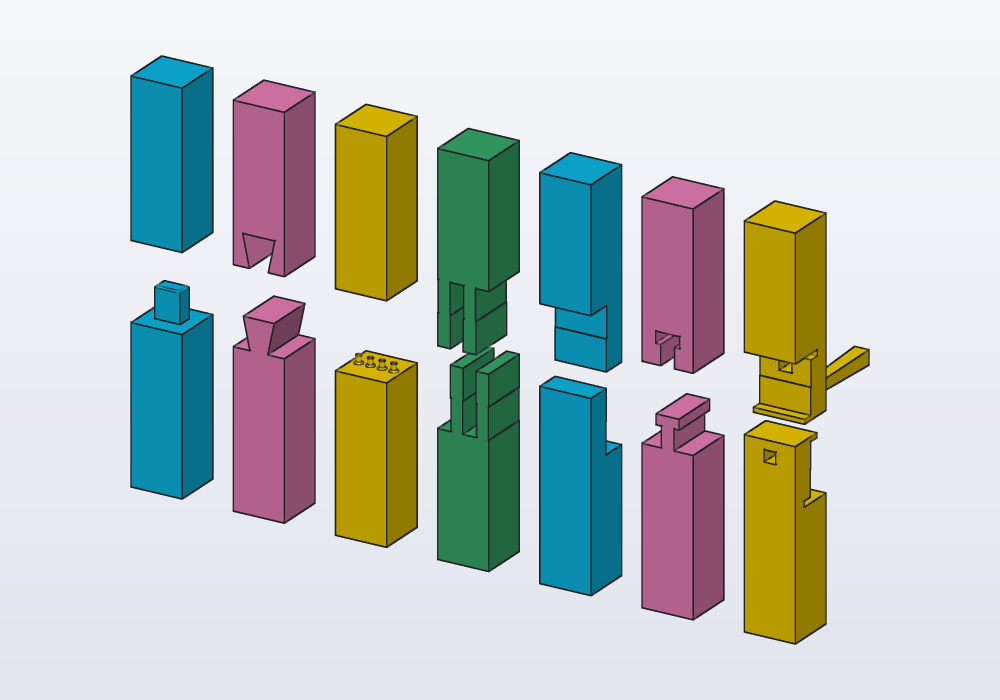
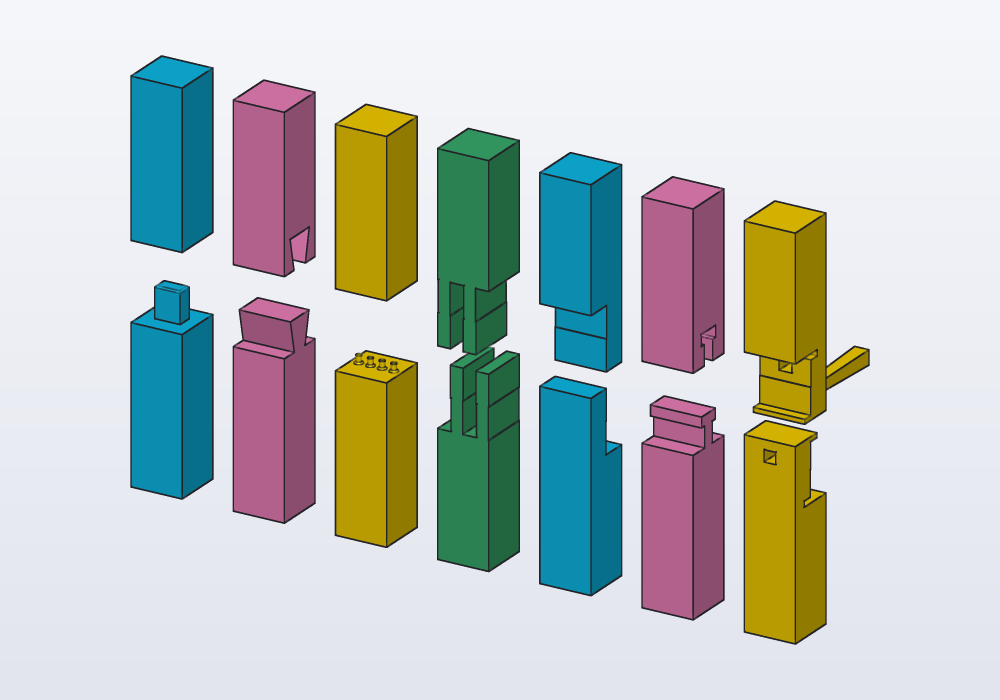
joinParts(): two parts joined where one ends on the other, a through tenon, a sliding dovetail whose housing runs out of the post; joints lie along the cut's longer side

Changed region(s): [[0.651, 0.45, 0.713, 0.66], [0.217, 0.42, 0.31, 0.51], [0.248, 0.33, 0.31, 0.39]]

diff --git a/docs/cheatsheet.html b/docs/cheatsheet.html
@@ -451,9 +451,10 @@ dd { margin: 0 0 0 12px; color: #4a5a54; }
 </dl></section>
 <section><h2>import joints;</h2><dl>
 <dt>struct Joint(a: Solid, b: Solid, loose: Solid[])</dt><dd>The two pieces of a solid cut along a plane with a joint between them, and the loose parts that lock it (a wedge), if any.</dd>
-<dt>splitJoint(body: Solid, at: Plane, kind: string = "tenon", size: Length = …, length: Length = …, clearance: Length = …, turn: Angle = …, count: int = 2) → Joint</dt><dd>`body` cut along the plane `at` into two pieces that fit together with a joint, `clearance` apart where they meet (0.2 mm suits most FDM printers: see the fits guide). The joint is centred on the cut (the middle of the section), `turn` turns it about the plane's normal; `size` sets its scale (by default the square root of the section's area: the width of a square beam) and `length` how far it reaches across the plane (0.6 of the size). `count` is the number of fingers or pins (pins thinner the more there are).  - "tenon": a tenon on a, its mortise in b (hozo); - "dovetail": a tail across the piece, sliding in sideways (ari); - "pins": round pins on a, holes in b; - "fingers": a box joint, fingers of a and b in turn; - "lap": a half lap (ai-gaki), each piece keeping half the thickness; - "kama": a gooseneck, dropping in from the side (kama tsugi); - "kanawa": a half lap with hooks at both ends, locked by a wedge driven through the middle (kanawa tsugi): the wedge is in `loose`.</dd>
+<dt>splitJoint(body: Solid, at: Plane, kind: string = "tenon", size: Length = …, length: Length = …, clearance: Length = …, turn: Angle = …, count: int = 2) → Joint</dt><dd>`body` cut along the plane `at` into two pieces that fit together with a joint, `clearance` apart where they meet (0.2 mm suits most FDM printers: see the fits guide). The joint is centred on the cut (the middle of the section), laid along the section's longer side; `turn` turns it further about the plane's normal; `size` sets its scale (by default the square root of the section's area: the width of a square beam) and `length` how far it reaches across the plane (0.6 of the size). `count` is the number of fingers or pins (pins thinner the more there are).  - "tenon": a tenon on a, its mortise in b (hozo); - "dovetail": a tail across the piece, sliding in sideways (ari); - "pins": round pins on a, holes in b; - "fingers": a box joint, fingers of a and b in turn; - "lap": a half lap (ai-gaki), each piece keeping half the thickness; - "kama": a gooseneck, dropping in from the side (kama tsugi); - "kanawa": a half lap with hooks at both ends, locked by a wedge driven through the middle (kanawa tsugi): the wedge is in `loose`.</dd>
 <dt>struct FlatSplit(a: Solid, b: Solid, keys: Solid[], aPrint: Solid, bPrint: Solid, print: Solid[])</dt><dd>The two halves of a solid cut flat along a plane, each to print lying on its cut face, and the flat keys that join them.</dd>
 <dt>splitFlat(body: Solid, at: Plane, keys: int = 2, kind: string = "bowtie", size: Length = …, depth: Length = …, clearance: Length = …, wall: Length = …) → FlatSplit</dt><dd>`body` cut flat along the plane `at` into two halves, each printed lying on its cut face (nothing stands out of it, so it lies flat on the bed), joined by `keys` flat keys: a pocket in each half's cut face, half the key in each. The keys print lying flat too, and fit their pockets `clearance` apart; glue them in, or leave them dry to take apart.  The keys go where the cut has room for them, at least `wall` from its edges, as far apart as they can be. "bowtie" keys (butterflies, chigiri) keep the halves from sliding and from turning, even one alone; "disc" keys are round, two at least. `size` is a key's length (from the section's size unless given), `depth` how deep it goes into each half. The pockets open with a 0.4 mm chamfer: the first layers spread a little on the bed, and the pocket's mouth is on the bed.</dd>
+<dt>joinParts(a: Solid, b: Solid, at: Plane, kind: string = "tenon", size: Length = …, length: Length = …, clearance: Length = …, turn: Angle = …, count: int = 2) → Joint</dt><dd>Two separate parts joined where one meets the other: `b` ends on the plane `at` (a face of `a`, its normal pointing into `b`), and the joint goes from `b` into `a`: a shelf into an upright, a rail into a post. The joint is centred on `b`'s end and sized by it, as splitJoint does; what reaches past `a`'s far side stops flush with it (a through tenon). Kinds: "tenon", "dovetail" (a sliding dovetail, its housing running out of `a` the way it slides in), "pins", "fingers" (a corner of a box), "lap", "kama" (its housing too runs out of `a`). Gives the two parts changed: `.a` with the hollows, `.b` with what fits in them.</dd>
 <dt>jointKinds: string[]</dt><dd></dd>
 </dl></section>
 <section><h2>import molds;</h2><dl>

diff --git a/docs/LANGUAGE.md b/docs/LANGUAGE.md
@@ -179,7 +179,7 @@ This page lists everything in brief; the [guides by topic](GUIDES.md) explain ea
   - face properties: `center`, `normal`, `area`.
   - selectors combine: `edges.parallel(Z) - edges.of(faces.top)`, `faces.top + faces.bottom`, `a & b` (in both).
 - **Built-in libraries** (`import gears;` or `import std.gears;`, selective imports work too):
-  - `joints`: `splitJoint(body, plane, kind: "tenon" | "dovetail" | "pins" | "fingers" | "lap" | "kama" | "kanawa", clearance: 0.2.mm, size:, length:, turn:, count:)` cuts a solid along a plane into two pieces that lock together without screws, as joiners join timber: a tenon, a dovetail sliding in sideways, round pins, a finger joint, a half lap, a gooseneck (kama tsugi), a half lap with hooks locked by a wedge (kanawa tsugi); it gives a `Joint` with `.a` (behind the plane), `.b` (in front of it) and `.loose` (the wedge), the hollows `clearance` larger; the joint sits in the middle of the cut, sized by the square root of the section's area unless `size:` says; `jointKinds` lists the kinds. For a part longer than the printer's bed. `splitFlat(body, plane, keys: 2, kind: "bowtie" | "disc", size:, depth:, clearance: 0.15.mm, wall: 1.6.mm)` cuts it into two halves with flat faces, each to print lying on its cut face, joined by flat keys (butterflies, chigiri) in pockets cut in both faces, placed where the cut has room, as far apart as they can be: a `FlatSplit` with `.a`, `.b`, `.keys` (in place), and laid for printing `.aPrint`, `.bPrint` (on their cut faces, on z = 0) and `.print` (the keys flat in a row). `profile.spots(n, margin:)` gives the points it uses: up to n inside a profile in any plane, at least margin from its edges, far apart.
+  - `joints`: `splitJoint(body, plane, kind: "tenon" | "dovetail" | "pins" | "fingers" | "lap" | "kama" | "kanawa", clearance: 0.2.mm, size:, length:, turn:, count:)` cuts a solid along a plane into two pieces that lock together without screws, as joiners join timber: a tenon, a dovetail sliding in sideways, round pins, a finger joint, a half lap, a gooseneck (kama tsugi), a half lap with hooks locked by a wedge (kanawa tsugi); it gives a `Joint` with `.a` (behind the plane), `.b` (in front of it) and `.loose` (the wedge), the hollows `clearance` larger; the joint sits in the middle of the cut, sized by the square root of the section's area unless `size:` says; `jointKinds` lists the kinds. For a part longer than the printer's bed. `splitFlat(body, plane, keys: 2, kind: "bowtie" | "disc", size:, depth:, clearance: 0.15.mm, wall: 1.6.mm)` cuts it into two halves with flat faces, each to print lying on its cut face, joined by flat keys (butterflies, chigiri) in pockets cut in both faces, placed where the cut has room, as far apart as they can be: a `FlatSplit` with `.a`, `.b`, `.keys` (in place), and laid for printing `.aPrint`, `.bPrint` (on their cut faces, on z = 0) and `.print` (the keys flat in a row). `joinParts(a, b, plane, kind:)` joins two separate parts where `b` ends on a face of `a` (the plane, its normal into `b`): the same joints, from `b` into `a`, sized by `b`'s end, a tenon longer than `a` is thick flush on the far side; joints lie along the cut's longer side unless `turn:` says. `profile.spots(n, margin:)` gives the points it uses: up to n inside a profile in any plane, at least margin from its edges, far apart.
   - `molds`: `mold(part, plane, wall: 10.mm, keys: 4, sprue: 6.mm, vents: 2, seal: 0.8.mm, clearance: 0.15.mm, pry: true)` a two-part mold to cast the part in (silicone, resin, plaster): a block round it cut along the parting plane (where the part is widest), the part hollow inside, cone keys on one half's parting face and sockets in the other, a seal ridge round the cavity and its groove, a pour hole with a funnel and vents up through the half in front of the plane, notches on two sides to pry it open; a `Mold` with `.a`, `.b` and, laid on their outer faces with the parting face up, `.aPrint`, `.bPrint`.
   - `hardware`: `Screw` sizes `M2`, `M2_5`, `M3`, `M4`, `M5`, `M6`, `M8`, `M10`, `M12`, unified inch `UNC4_40`, `UNC6_32`, `UNC8_32`, `UNC10_24`, `UNC1_4_20` (cameras and tripods), and self-tapping screws for plastic `ST2_2`, `ST2_9`, `ST3_5`, `ST4_2` (their `tap` is the hole they cut their thread in), with `d`, `pitch`, `tap`, `clearance`, `head`, `headHeight`, `key`, `nut`, `nutHeight`, `washer`, `insert`, `insertDepth`; `screw(M3, 20.mm, threaded: false, head: "socket" | "button" | "flat" | "hex" | "pan")` (ISO 4762, 7380, 10642, 4017, 7049; underside of the head on z = 0, a flat head's top), `headOf(M3, "button")` its `d`, `h`, `key`, `nut(M3, threaded: false)`, `washer(M3)`, `hexPrism(acrossFlats, h)`, `squareNut(M3)` (DIN 562, `squareNutSize`, `squareNutHeight`); tools to subtract, top on z = 0 going down: `hole(M3, depth, "clearance" | "tap" | "insert" | "counterbore" | "countersink" | "ribs", head: "socket")` (a counterbore sized for that head; `"ribs"` a hole the screw passes with three ribs along it, 120° apart and one towards -Y, the bottom one on a wall, that the screw cuts its thread into), `nutTrap(M3, depth)`, `squareNutSlot(M3, reach, clearance: 0.2.mm)` (centred on the axis, its middle on z = 0, open towards +X `reach` long, for the nut to slide in from the side); aluminium extrusions of the 20 and 30 series (2020, 3030, B-type slot, typical sizes): `extrusion(20, length)` (standing along Z, centred: a reference part), `extrusionSeries(20)` its sizes (`size`, `slot`, `lip`, `cavity`, `depth`, `bore`, `screw`), `tNut(20, length: 10.mm)` (a T-nut as it sits in a slot facing +Z, the face on z = 0, a tap hole for M5 or M6) and `slotKey(20, length)` (a key under a printed part, down from z = 0 into a slot, to keep it square to the extrusion).
   - `threads`: `threadedRod(d, pitch, length, chamfer: true, left: false)` (ISO metric profile, real geometry), `tappedHole(d, pitch, depth, clearance: 0.15.mm)` (a tool to subtract for an internal thread), `toothHeight(pitch)`. They are made with `isoThread(d:, pitch:, length:, chamfer:)`, a thread built exactly from its boundary (each corner of the profile on its own helix, a ruled face between two of them, one a turn) and cut to length: no sweep, no core to fuse; an M8 × 60 rod in about a second.

diff --git a/docs/CHEATSHEET.md b/docs/CHEATSHEET.md
@@ -445,9 +445,10 @@ s is a Solid, p a Profile, f a Frame; every value is immutable: operations give 
 ## Library: import joints;
 
 - `struct Joint(a: Solid, b: Solid, loose: Solid[])` — The two pieces of a solid cut along a plane with a joint between them, and the loose parts that lock it (a wedge), if any.
-- `splitJoint(body: Solid, at: Plane, kind: string = "tenon", size: Length = …, length: Length = …, clearance: Length = …, turn: Angle = …, count: int = 2) → Joint` — `body` cut along the plane `at` into two pieces that fit together with a joint, `clearance` apart where they meet (0.2 mm suits most FDM printers: see the fits guide). The joint is centred on the cut (the middle of the section), `turn` turns it about the plane's normal; `size` sets its scale (by default the square root of the section's area: the width of a square beam) and `length` how far it reaches across the plane (0.6 of the size). `count` is the number of fingers or pins (pins thinner the more there are).  - "tenon": a tenon on a, its mortise in b (hozo); - "dovetail": a tail across the piece, sliding in sideways (ari); - "pins": round pins on a, holes in b; - "fingers": a box joint, fingers of a and b in turn; - "lap": a half lap (ai-gaki), each piece keeping half the thickness; - "kama": a gooseneck, dropping in from the side (kama tsugi); - "kanawa": a half lap with hooks at both ends, locked by a wedge driven through the middle (kanawa tsugi): the wedge is in `loose`.
+- `splitJoint(body: Solid, at: Plane, kind: string = "tenon", size: Length = …, length: Length = …, clearance: Length = …, turn: Angle = …, count: int = 2) → Joint` — `body` cut along the plane `at` into two pieces that fit together with a joint, `clearance` apart where they meet (0.2 mm suits most FDM printers: see the fits guide). The joint is centred on the cut (the middle of the section), laid along the section's longer side; `turn` turns it further about the plane's normal; `size` sets its scale (by default the square root of the section's area: the width of a square beam) and `length` how far it reaches across the plane (0.6 of the size). `count` is the number of fingers or pins (pins thinner the more there are).  - "tenon": a tenon on a, its mortise in b (hozo); - "dovetail": a tail across the piece, sliding in sideways (ari); - "pins": round pins on a, holes in b; - "fingers": a box joint, fingers of a and b in turn; - "lap": a half lap (ai-gaki), each piece keeping half the thickness; - "kama": a gooseneck, dropping in from the side (kama tsugi); - "kanawa": a half lap with hooks at both ends, locked by a wedge driven through the middle (kanawa tsugi): the wedge is in `loose`.
 - `struct FlatSplit(a: Solid, b: Solid, keys: Solid[], aPrint: Solid, bPrint: Solid, print: Solid[])` — The two halves of a solid cut flat along a plane, each to print lying on its cut face, and the flat keys that join them.
 - `splitFlat(body: Solid, at: Plane, keys: int = 2, kind: string = "bowtie", size: Length = …, depth: Length = …, clearance: Length = …, wall: Length = …) → FlatSplit` — `body` cut flat along the plane `at` into two halves, each printed lying on its cut face (nothing stands out of it, so it lies flat on the bed), joined by `keys` flat keys: a pocket in each half's cut face, half the key in each. The keys print lying flat too, and fit their pockets `clearance` apart; glue them in, or leave them dry to take apart.  The keys go where the cut has room for them, at least `wall` from its edges, as far apart as they can be. "bowtie" keys (butterflies, chigiri) keep the halves from sliding and from turning, even one alone; "disc" keys are round, two at least. `size` is a key's length (from the section's size unless given), `depth` how deep it goes into each half. The pockets open with a 0.4 mm chamfer: the first layers spread a little on the bed, and the pocket's mouth is on the bed.
+- `joinParts(a: Solid, b: Solid, at: Plane, kind: string = "tenon", size: Length = …, length: Length = …, clearance: Length = …, turn: Angle = …, count: int = 2) → Joint` — Two separate parts joined where one meets the other: `b` ends on the plane `at` (a face of `a`, its normal pointing into `b`), and the joint goes from `b` into `a`: a shelf into an upright, a rail into a post. The joint is centred on `b`'s end and sized by it, as splitJoint does; what reaches past `a`'s far side stops flush with it (a through tenon). Kinds: "tenon", "dovetail" (a sliding dovetail, its housing running out of `a` the way it slides in), "pins", "fingers" (a corner of a box), "lap", "kama" (its housing too runs out of `a`). Gives the two parts changed: `.a` with the hollows, `.b` with what fits in them.
 - `jointKinds: string[]`
 
 ## Library: import molds;

diff --git a/docs/guides/joints.md b/docs/guides/joints.md
@@ -1,6 +1,6 @@
 # Joints between parts
 
-A part too long for the printer's bed, cut in two pieces that lock together with no screws and no glue, as joiners join timber: tenons, dovetails, pins, finger joints, half laps, the gooseneck and the wedged scarf of Japanese carpentry. Or a part cut into two halves with flat faces, each printed lying on its cut face, joined by flat keys. The `joints` library cuts a solid along a plane and shapes both sides of the cut.
+A part too long for the printer's bed cut in two pieces that lock together with no screws and no glue, or two parts joined where they meet, as joiners join timber: tenons, dovetails, pins, finger joints, half laps, the gooseneck and the wedged scarf of Japanese carpentry. Or a part cut into two halves with flat faces, each printed lying on its cut face, joined by flat keys. The `joints` library cuts a solid along a plane and shapes both sides of the cut.
 
 <!-- render: joints-kinds --from 0.6,-1,0.5 -->
 ```d
@@ -72,7 +72,7 @@ The joint sits in the middle of the cut. Its size follows the cut: by default it
 | `clearance:` | the play where the pieces meet, 0.2 mm unless given |
 | `size:` | the joint's scale, instead of the square root of the section's area |
 | `length:` | how far it reaches across the cut, 0.6 of the size unless given |
-| `turn:` | turns it about the plane's normal: which way a dovetail or a gooseneck slides in |
+| `turn:` | turns it about the plane's normal (it lies along the cut's longer side unless turned): which way a dovetail or a gooseneck slides in |
 | `count:` | the number of pins (thinner the more there are) or fingers |
 
 ## A rail longer than the bed
@@ -138,6 +138,53 @@ Solid wedge() => scarf().loose[0].move(y: -25.mm, z: 6.mm);
 ```
 
 ![A post joined with a wedged scarf, the wedge beside it](img/joints-kanawa.png)
+
+## Two parts that meet
+
+`joinParts(a, b, plane)` joins two separate parts where one ends on the other: a shelf on an upright, a rail on a post, the sides of a box. `b` is the part that ends on the plane (a face of `a`, the plane's normal pointing into `b`), and the joint goes from `b` into `a`, centred on `b`'s end and sized by it. A tenon longer than `a` is thick comes out flush on the far side, a through tenon, as the frames of Japanese cabinets (sashimono) show them. The kinds are those of `splitJoint` but the wedged scarf; `.a` comes back with the hollows, `.b` with what fits in them.
+
+<!-- render: joints-parts --from -0.5,1,0.6 -->
+```d
+// a shelf into an upright with a through tenon, a rail
+// into a post with a sliding dovetail, pulled apart
+
+import joints;
+
+Solid upright() => box(12.mm, 60.mm, 100.mm)
+    .move(x: -6.mm);
+Solid shelf() => box(60.mm, 50.mm, 12.mm)
+    .move(x: 30.mm, z: 40.mm);
+
+// the shelf ends on the upright's face x = 0
+Joint shelved() => joinParts(upright(), shelf(),
+    plane(origin: vec(0.mm, 0.mm, 46.mm), normal: X));
+
+@part("Sky Pop")
+Solid side() => shelved().a;
+
+@part("Pink Pop")
+Solid board() => shelved().b.move(x: 25.mm);
+
+Solid post() => box(20.mm, 20.mm, 80.mm)
+    .move(x: 100.mm);
+Solid rail() => box(15.mm, 60.mm, 25.mm)
+    .move(x: 100.mm, y: 40.mm, z: 30.mm);
+
+// the rail ends on the post's face y = 10
+Joint railed() => joinParts(post(), rail(),
+    plane(origin: vec(100.mm, 10.mm, 42.5.mm), normal: Y),
+    kind: "dovetail");
+
+@part("gold")
+Solid upright2() => railed().a;
+
+@part("mediumseagreen")
+Solid rail2() => railed().b.move(y: 25.mm);
+```
+
+![A shelf with a through tenon into an upright, a rail with a sliding dovetail into a post](img/joints-parts.png)
+
+The joint lies along the longer side of the end, as a tenon goes along a board's width and a dovetail slides along a rail's height; `turn: 90.deg` turns it across. The housing of a dovetail or a gooseneck runs on out of `a` the way it slides, so the rail goes in from the post's end.
 
 ## Two halves cut flat, joined by keys
 

diff --git a/docs/GUIDES.md b/docs/GUIDES.md
@@ -78,7 +78,7 @@ Boxes, trays and cases with lids: the `enclosures` library (`roundedBox`, `tray`
 
 [<img src="guides/img/joints-kinds.png" width="420" alt="Joints between parts">](guides/joints.md)
 
-A part too long for the printer's bed, cut in two pieces that lock together with no screws and no glue, as joiners join timber: tenons, dovetails, pins, finger joints, half laps, the gooseneck and the wedged scarf of Japanese carpentry. Or a part cut into two halves with flat faces, each printed lying on its cut face, joined by flat keys. The `joints` library cuts a solid along a plane and shapes both sides of the cut.
+A part too long for the printer's bed cut in two pieces that lock together with no screws and no glue, or two parts joined where they meet, as joiners join timber: tenons, dovetails, pins, finger joints, half laps, the gooseneck and the wedged scarf of Japanese carpentry. Or a part cut into two halves with flat faces, each printed lying on its cut face, joined by flat keys. The `joints` library cuts a solid along a plane and shapes both sides of the cut.
 
 ### [Molds for casting](guides/molds.md)
 

diff --git a/docs/AGENTS.md b/docs/AGENTS.md
@@ -12,12 +12,12 @@ reference first and follow the rules below.
 
 ## Setup and updates
 
-This text was made by hcad 0.3.1 (docs stamp `0.3.1-fb026c0a`). Before the first
+This text was made by hcad 0.3.1 (docs stamp `0.3.1-9968fa2f`). Before the first
 model of a session, run `hcad docs --stamp` (`hcad` may be a full path, or the
 AppImage followed by the word `hcad`; with the MCP server, hcad_docs with
 format stamp):
 
-- **It prints `0.3.1-fb026c0a`:** this text is up to date.
+- **It prints `0.3.1-9968fa2f`:** this text is up to date.
 - **It prints something else:** hackerscad was updated and this text is
   older or newer than it. Installed as a skill, refresh it in place:
   `hcad docs --skill` into this SKILL.md, `hcad docs` into the llms-full.txt

diff --git a/docs/SKILL.md b/docs/SKILL.md
@@ -17,12 +17,12 @@ reference first and follow the rules below.
 
 ## Setup and updates
 
-This text was made by hcad 0.3.1 (docs stamp `0.3.1-fb026c0a`). Before the first
+This text was made by hcad 0.3.1 (docs stamp `0.3.1-9968fa2f`). Before the first
 model of a session, run `hcad docs --stamp` (`hcad` may be a full path, or the
 AppImage followed by the word `hcad`; with the MCP server, hcad_docs with
 format stamp):
 
-- **It prints `0.3.1-fb026c0a`:** this text is up to date.
+- **It prints `0.3.1-9968fa2f`:** this text is up to date.
 - **It prints something else:** hackerscad was updated and this text is
   older or newer than it. Installed as a skill, refresh it in place:
   `hcad docs --skill` into this SKILL.md, `hcad docs` into the llms-full.txt
